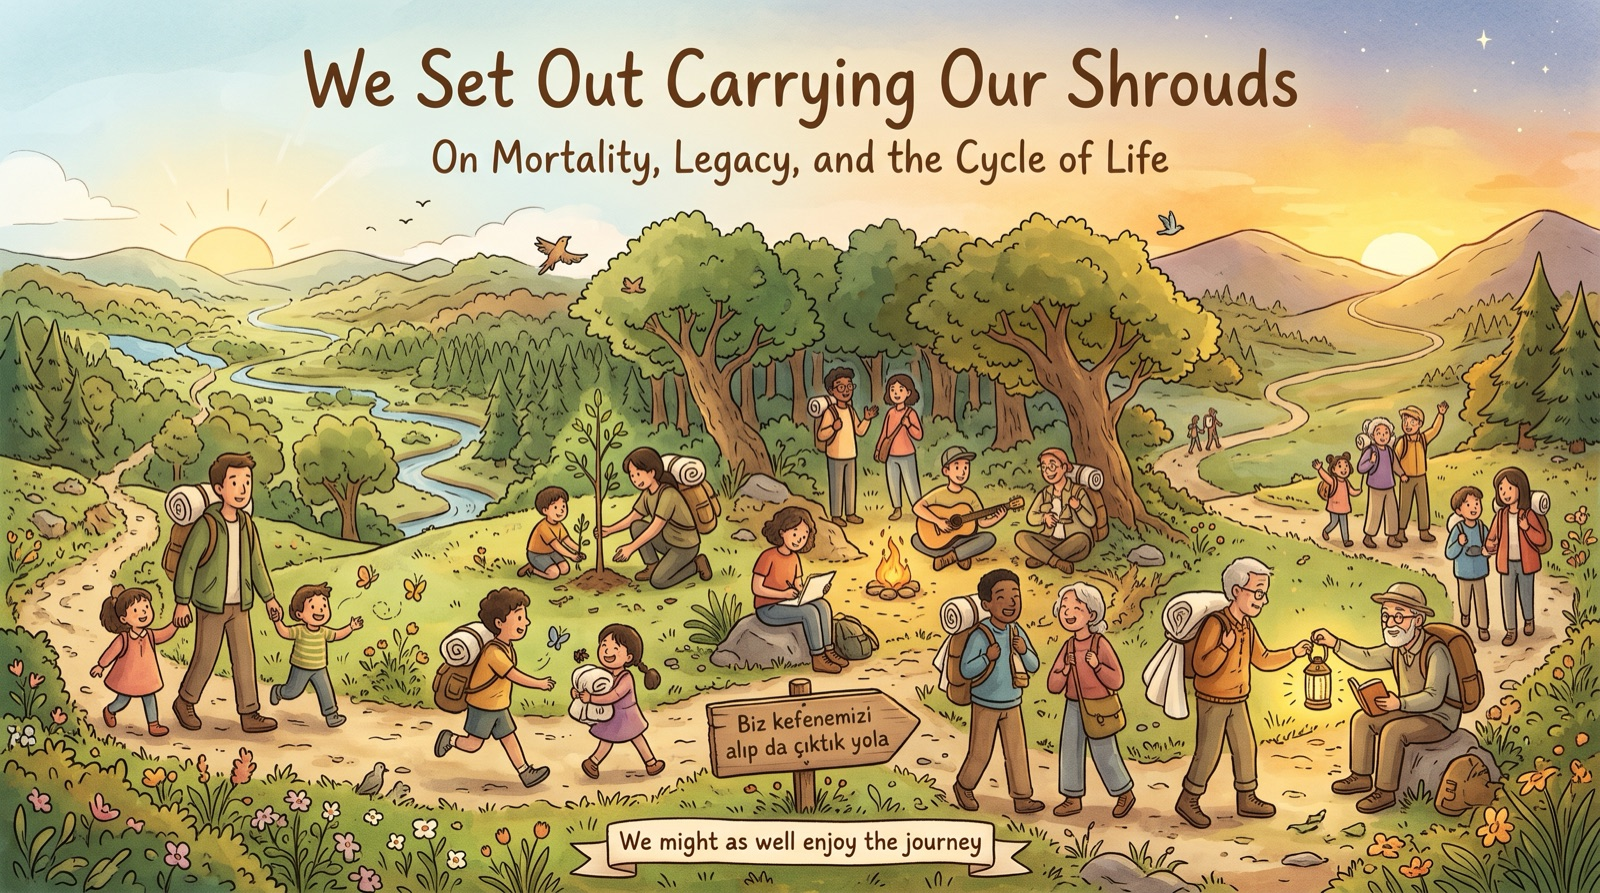
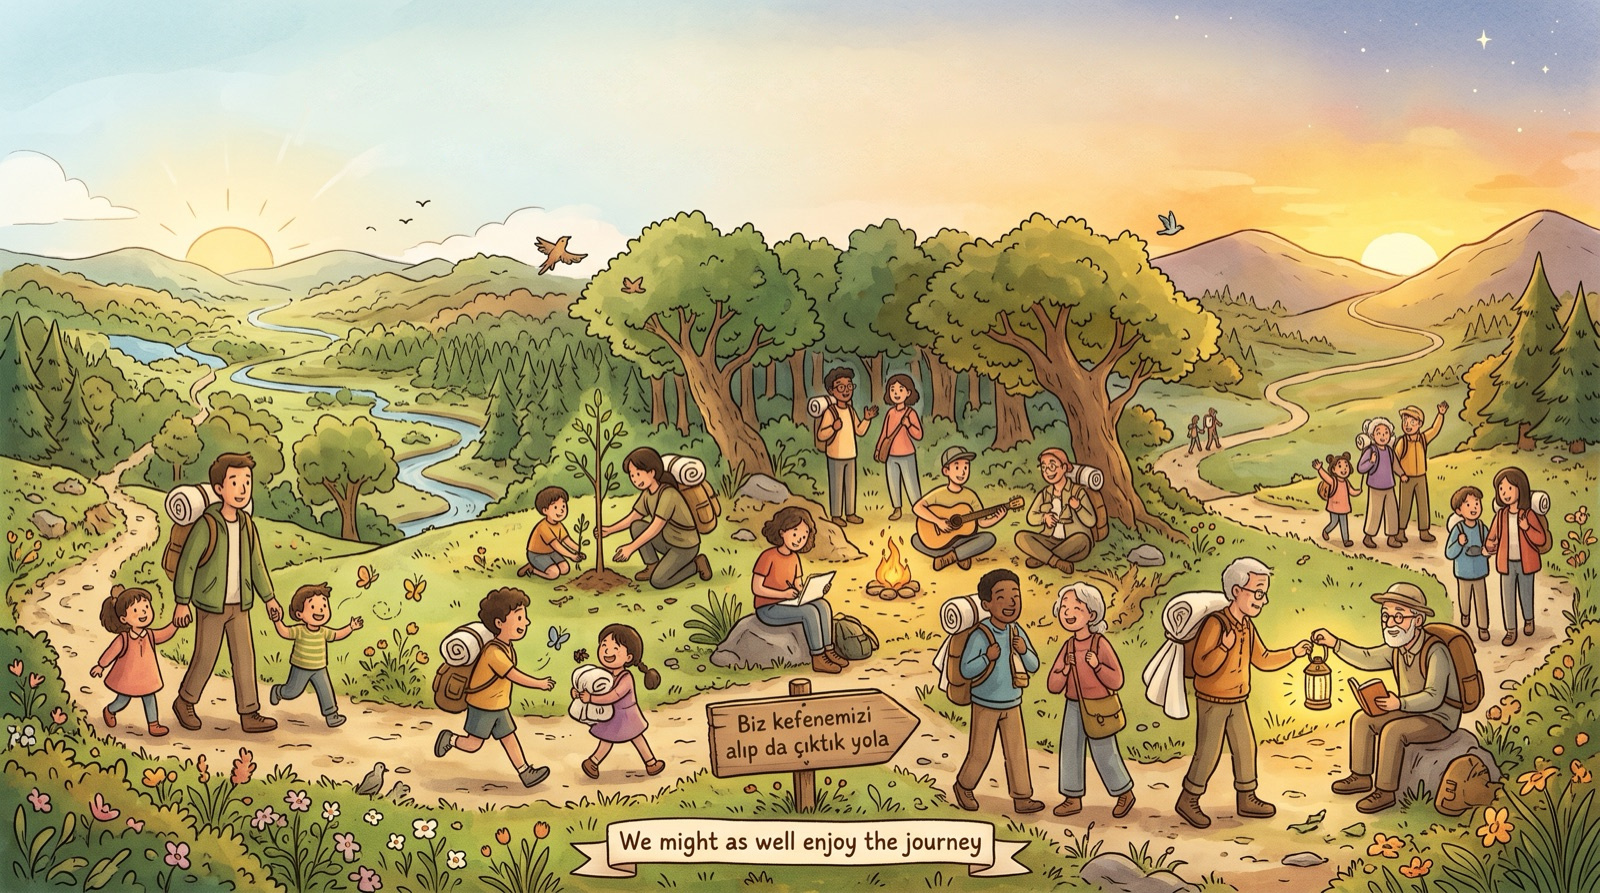
Remove upper title text from Carrying Our Shrouds illustration

Changed region(s): [[0.1875, 0.0605, 0.8125, 0.2116]]

diff --git a/blog-carrying-our-shrouds-tr.html b/blog-carrying-our-shrouds-tr.html
@@ -278,7 +278,7 @@ Manual changes will be overwritten.
 
 <p><em>Bir <a href="https://www.youtube.com/watch?v=idW9ZON1a0o" target="_blank" rel="noopener noreferrer">YouTube videosu</a> üzerine yaptığımız bir sohbetten, internette takip ettiğimiz insanların hayatlarından esinlenerek yazıldı.</em></p>
 
-<figure class="blog-article-figure"><img src="carrying-our-shrouds.jpg" alt="Başlığı “Kefenimizi Alıp da Çıktık Yola: Ölümlülük, Geride Bıraktıklarımız ve Hayatın Döngüsü Üzerine” olan bir illüstrasyon: Doğan ve batan güneş arasında, yeşil tepelerin ortasından kıvrılarak geçen patikalarda her yaştan insan yürüyor; her birinin sırt çantasında rulo yapılmış beyaz bir bohça var. Bir baba iki küçük çocuğuyla yürüyor, bir anne ile çocuğu fidan dikiyor, arkadaşlar kamp ateşinin başında gitar çalıyor, yaşlı bir çift kol kola geziniyor, yaşlı bir adam da genç bir yolcuya fener uzatıyor. Ahşap bir yön tabelasında “Biz kefenemizi alıp da çıktık yola” yazıyor; en alttaki pankartta ise “Bari yolculuğun tadını çıkaralım.”" loading="lazy"></figure>
+<figure class="blog-article-figure"><img src="carrying-our-shrouds.jpg" alt="Bir illüstrasyon: Doğan ve batan güneş arasında, yeşil tepelerin ortasından kıvrılarak geçen patikalarda her yaştan insan yürüyor; her birinin sırt çantasında rulo yapılmış beyaz bir bohça var. Bir baba iki küçük çocuğuyla yürüyor, bir anne ile çocuğu fidan dikiyor, arkadaşlar kamp ateşinin başında gitar çalıyor, yaşlı bir çift kol kola geziniyor, yaşlı bir adam da genç bir yolcuya fener uzatıyor. Ahşap bir yön tabelasında “Biz kefenemizi alıp da çıktık yola” yazıyor; en alttaki pankartta ise “Bari yolculuğun tadını çıkaralım.”" loading="lazy"></figure>
         </article>
       </div>
 

diff --git a/blog-carrying-our-shrouds.html b/blog-carrying-our-shrouds.html
@@ -278,7 +278,7 @@ Manual changes will be overwritten.
 
 <p><em>Inspired by a conversation about a <a href="https://www.youtube.com/watch?v=idW9ZON1a0o" target="_blank" rel="noopener noreferrer">YouTube video</a>, the lives of people we follow online.</em></p>
 
-<figure class="blog-article-figure"><img src="carrying-our-shrouds.jpg" alt="An illustration titled “We Set Out Carrying Our Shrouds: On Mortality, Legacy, and the Cycle of Life”: people of every age walk winding trails through green hills between a rising and a setting sun, each carrying a rolled white bundle in their pack. A father walks with two small children, a mother and child plant a sapling, friends play guitar by a campfire, an elderly couple stroll arm in arm, and an old man hands a lantern to a younger traveler. A wooden signpost reads “Biz kefenemizi alıp da çıktık yola,” and a banner at the bottom reads “We might as well enjoy the journey.”" loading="lazy"></figure>
+<figure class="blog-article-figure"><img src="carrying-our-shrouds.jpg" alt="An illustration: people of every age walk winding trails through green hills between a rising and a setting sun, each carrying a rolled white bundle in their pack. A father walks with two small children, a mother and child plant a sapling, friends play guitar by a campfire, an elderly couple stroll arm in arm, and an old man hands a lantern to a younger traveler. A wooden signpost reads “Biz kefenemizi alıp da çıktık yola,” and a banner at the bottom reads “We might as well enjoy the journey.”" loading="lazy"></figure>
         </article>
       </div>
 

diff --git a/posts/carrying-our-shrouds-tr.md b/posts/carrying-our-shrouds-tr.md
@@ -232,4 +232,4 @@ Bari yolculuğun tadını çıkaralım.
 
 *Bir [YouTube videosu](https://www.youtube.com/watch?v=idW9ZON1a0o) üzerine yaptığımız bir sohbetten, internette takip ettiğimiz insanların hayatlarından esinlenerek yazıldı.*
 
-![Başlığı “Kefenimizi Alıp da Çıktık Yola: Ölümlülük, Geride Bıraktıklarımız ve Hayatın Döngüsü Üzerine” olan bir illüstrasyon: Doğan ve batan güneş arasında, yeşil tepelerin ortasından kıvrılarak geçen patikalarda her yaştan insan yürüyor; her birinin sırt çantasında rulo yapılmış beyaz bir bohça var. Bir baba iki küçük çocuğuyla yürüyor, bir anne ile çocuğu fidan dikiyor, arkadaşlar kamp ateşinin başında gitar çalıyor, yaşlı bir çift kol kola geziniyor, yaşlı bir adam da genç bir yolcuya fener uzatıyor. Ahşap bir yön tabelasında “Biz kefenemizi alıp da çıktık yola” yazıyor; en alttaki pankartta ise “Bari yolculuğun tadını çıkaralım.”](carrying-our-shrouds.jpg)
+![Bir illüstrasyon: Doğan ve batan güneş arasında, yeşil tepelerin ortasından kıvrılarak geçen patikalarda her yaştan insan yürüyor; her birinin sırt çantasında rulo yapılmış beyaz bir bohça var. Bir baba iki küçük çocuğuyla yürüyor, bir anne ile çocuğu fidan dikiyor, arkadaşlar kamp ateşinin başında gitar çalıyor, yaşlı bir çift kol kola geziniyor, yaşlı bir adam da genç bir yolcuya fener uzatıyor. Ahşap bir yön tabelasında “Biz kefenemizi alıp da çıktık yola” yazıyor; en alttaki pankartta ise “Bari yolculuğun tadını çıkaralım.”](carrying-our-shrouds.jpg)

diff --git a/posts/carrying-our-shrouds.md b/posts/carrying-our-shrouds.md
@@ -230,4 +230,4 @@ We might as well enjoy the journey.
 
 *Inspired by a conversation about a [YouTube video](https://www.youtube.com/watch?v=idW9ZON1a0o), the lives of people we follow online.*
 
-![An illustration titled “We Set Out Carrying Our Shrouds: On Mortality, Legacy, and the Cycle of Life”: people of every age walk winding trails through green hills between a rising and a setting sun, each carrying a rolled white bundle in their pack. A father walks with two small children, a mother and child plant a sapling, friends play guitar by a campfire, an elderly couple stroll arm in arm, and an old man hands a lantern to a younger traveler. A wooden signpost reads “Biz kefenemizi alıp da çıktık yola,” and a banner at the bottom reads “We might as well enjoy the journey.”](carrying-our-shrouds.jpg)
+![An illustration: people of every age walk winding trails through green hills between a rising and a setting sun, each carrying a rolled white bundle in their pack. A father walks with two small children, a mother and child plant a sapling, friends play guitar by a campfire, an elderly couple stroll arm in arm, and an old man hands a lantern to a younger traveler. A wooden signpost reads “Biz kefenemizi alıp da çıktık yola,” and a banner at the bottom reads “We might as well enjoy the journey.”](carrying-our-shrouds.jpg)
